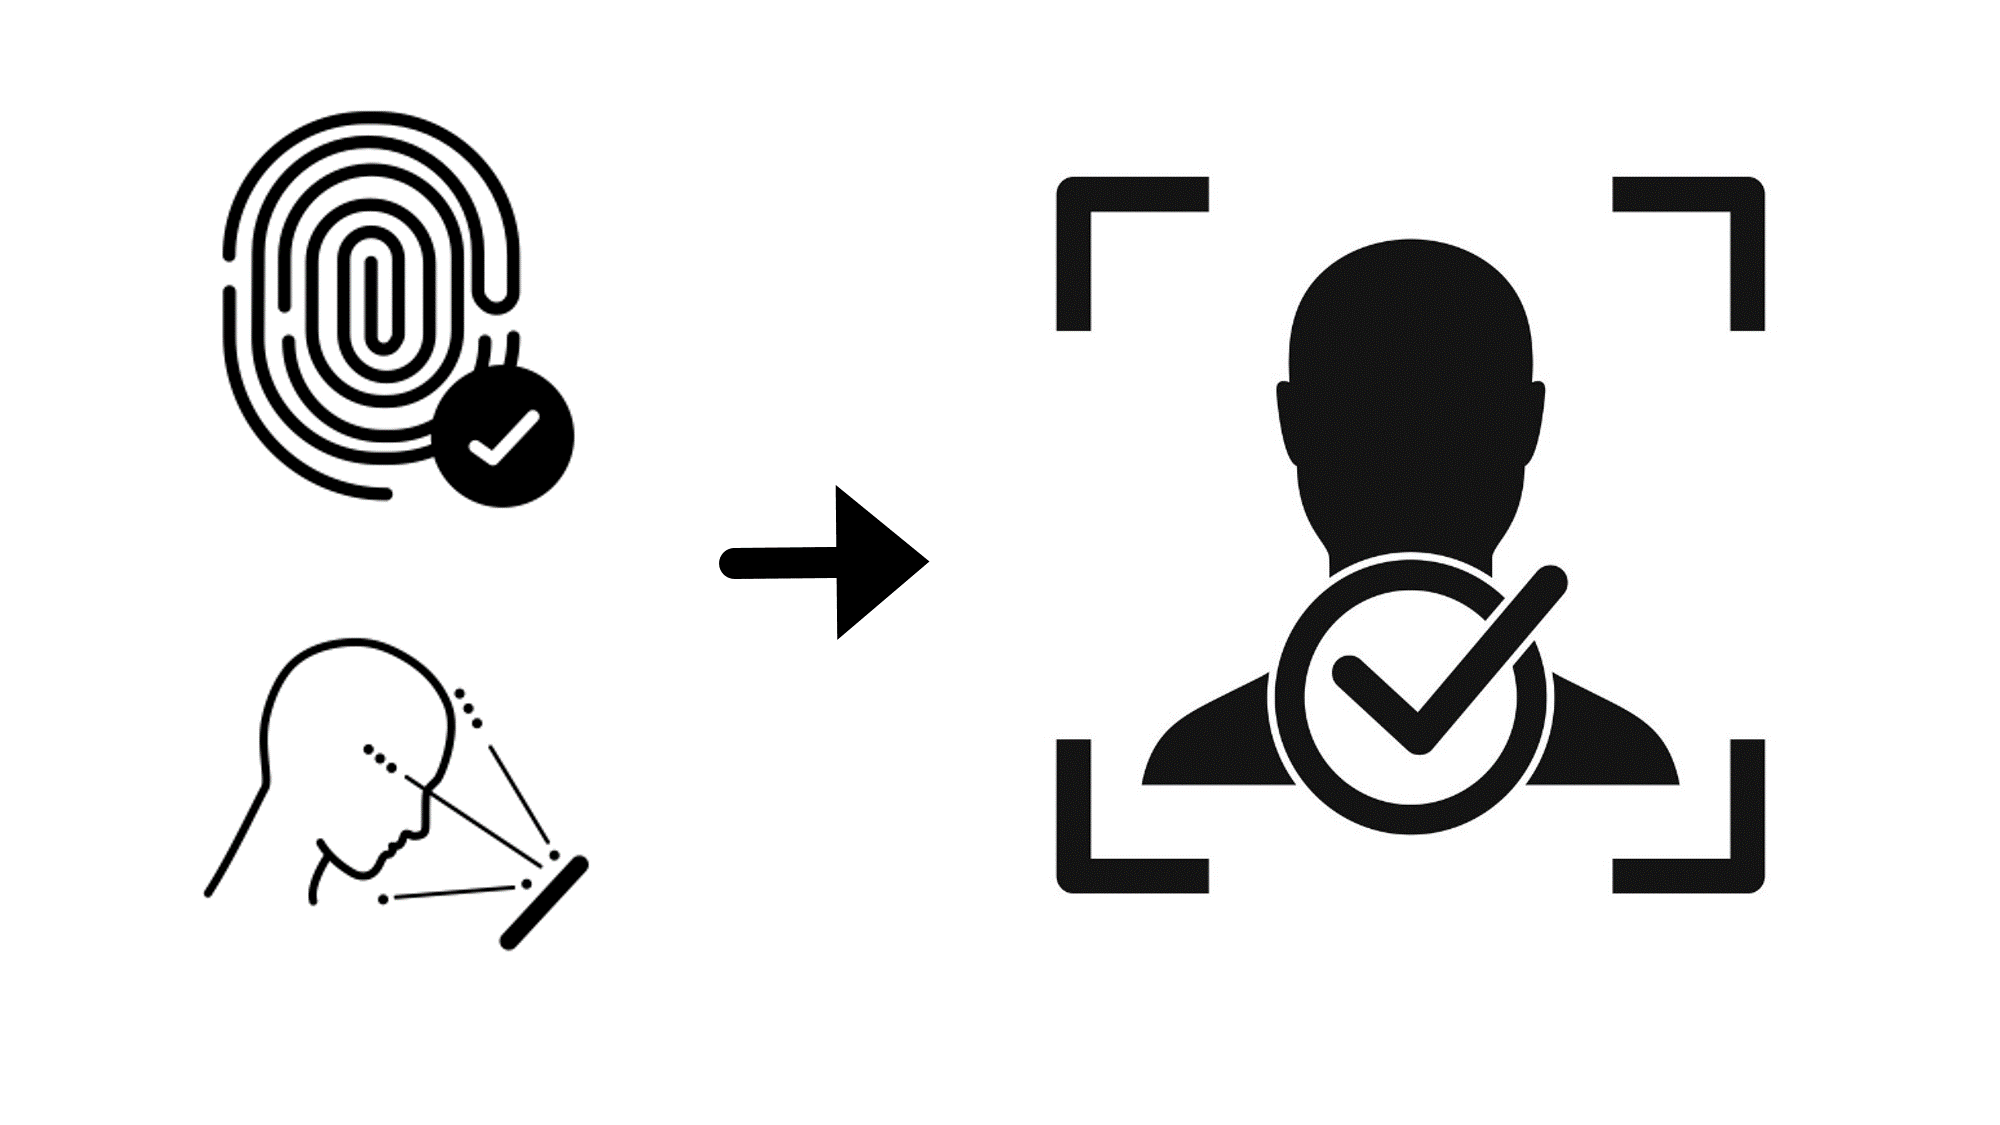
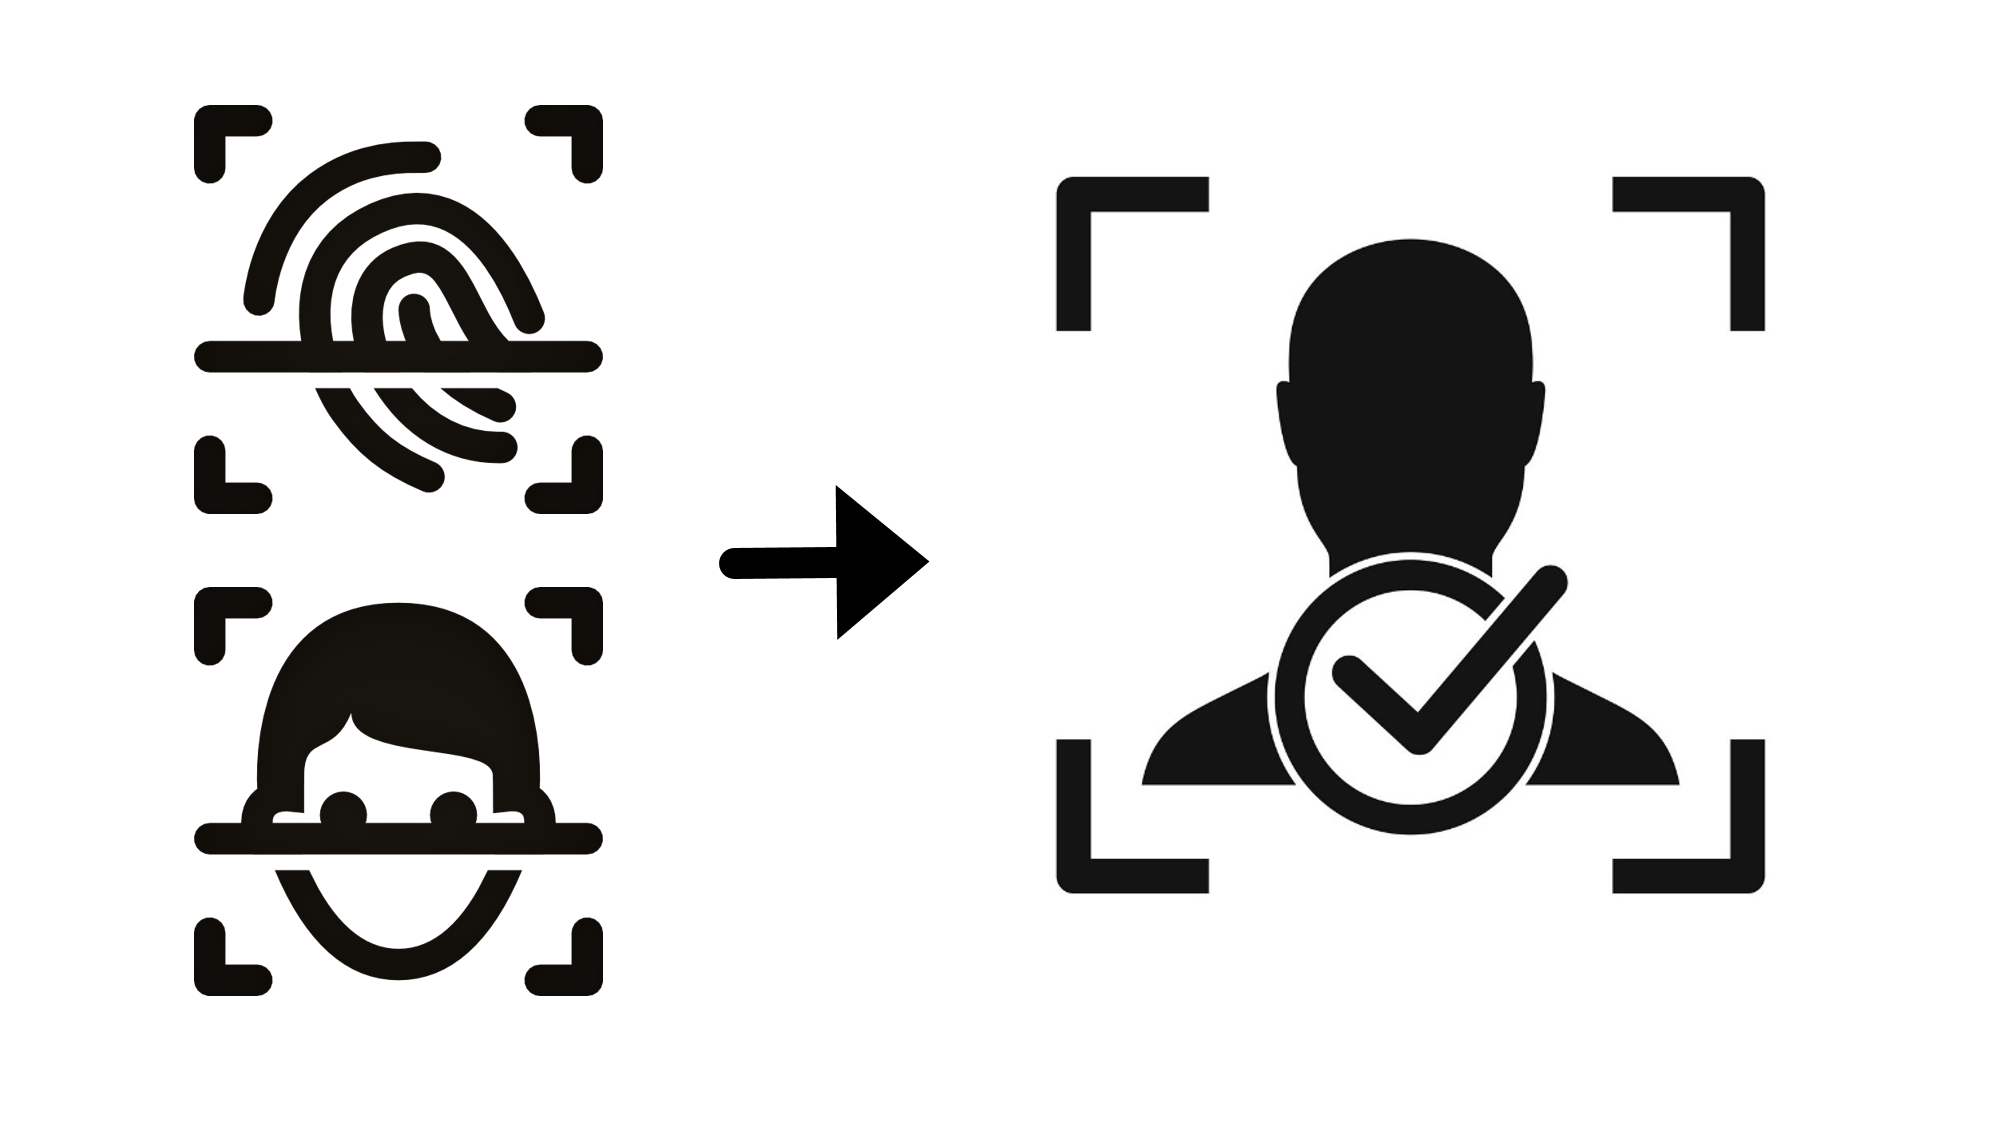
working server 2023-01-18 post

Changed region(s): [[0.093, 0.0933, 0.31, 0.4667], [0.093, 0.4978, 0.31, 0.9022]]

diff --git a/_posts/development/server/2023-01-18-authentication-authorization.md b/_posts/development/server/2023-01-18-authentication-authorization.md
@@ -15,17 +15,25 @@ image:
 * this unordered seed list will be replaced by the toc
 {:toc}
 
-# 인증(Authentication)이란?
+# 실 생활에서의 인증과 인가
+
+## 인증(Authentication)이란?
 
 ![authentication](/assets/img/development/server/2023-01-18/authentication.png){:.centered width="90%"}
 
-## 인증
-- (지문 또는 얼굴 등)입증 가능한 정보로 회사 또는 인증이 필요한 곳에 입증하는 과정
+- **(지문 또는 얼굴 등)입증 가능한 정보**로 회사 또는 **인증이 필요한 곳에 입증하는 과정**
 - **식별 가능한 정보로 서비스에 등록된 유저의 신원을 입증하는 과정**
 - 인증을 통해 인증 허가된 곳(예) 회사 503호)에 출입하여 일도 하고, 회의도 하고, 다용도실에서 커피도 마시고 할 수 있다.
 - **<span style="color:#ff8080">하지만</span>**, 인증이 허가된 곳만 가능하고, 인증이 허가 되지 않은 다른 층이나 다른 사무실에 들어가지 못하게 된다.
 - **<span style="color:#ff8080">이유는</span>**, 인증 허가된 곳(예) 회사 503호)외에 다른 곳은 나의 정보로 인증 등록이 되어있지 않기 때문이다.
 
-## 인가
-- **권한에 대한 허가**를 나타내는 **인가**이다.
+## 인가(Authorization)란?
+
+![authorization](/assets/img/development/server/2023-01-18/authorization.png){:.centered width="90%"}
+
+- **입증(인증)**된 신원의 **권한에 대한 허가**를 나타내는 것이 **인가**이다.
 - **<span style="color:#ff8080">즉</span>**, **인증된 사용자에 대한 자원 접근 권환 확인**
+
+# Web에서의 인증과 인가
+
+![web_authentication_authorization](/assets/img/development/server/2023-01-18/web_authentication_authorization.png){:.centered width="90%"}
